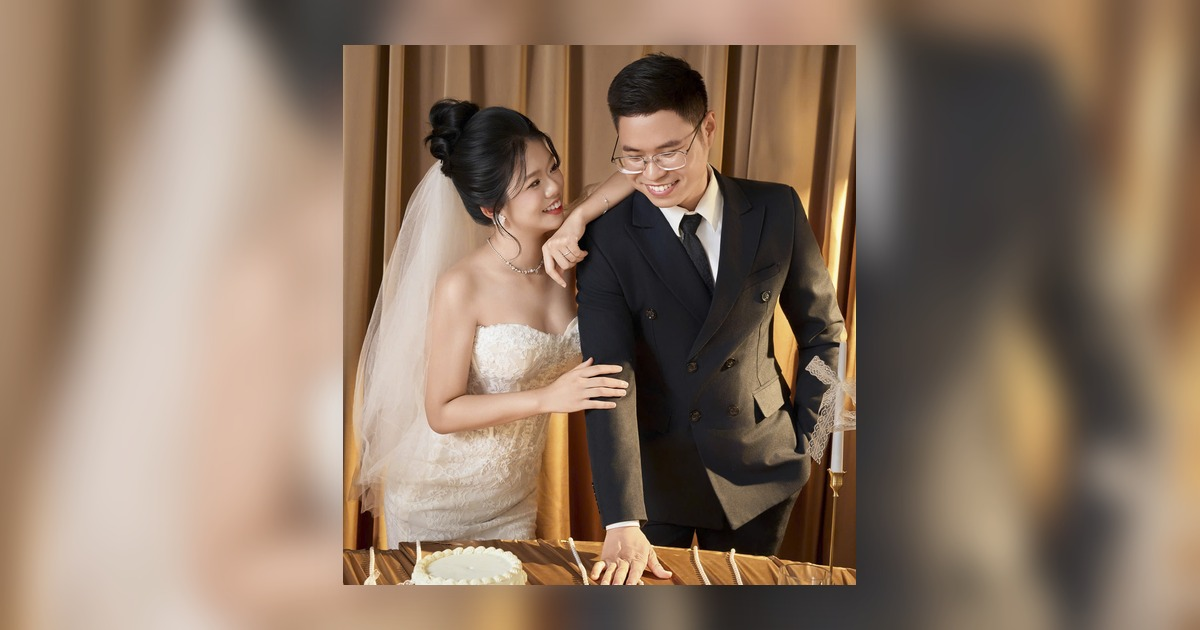
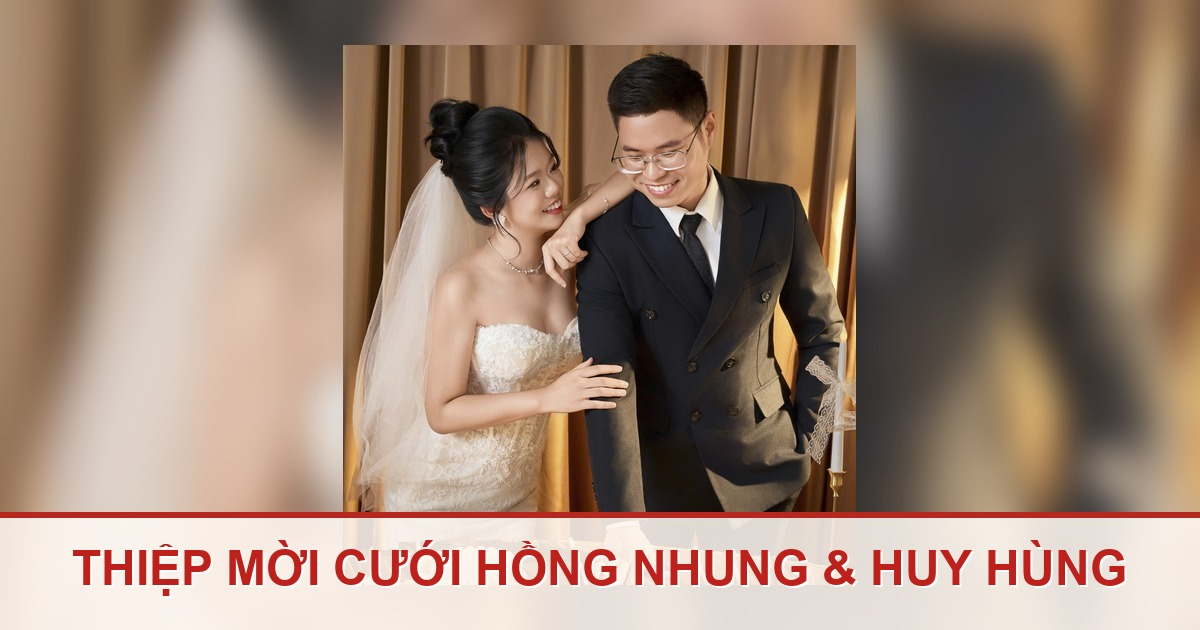
1

Changed region(s): [[0.0, 0.8143, 1.0, 1.0]]

diff --git a/index.html b/index.html
@@ -5,8 +5,9 @@
     <meta charset="UTF-8">
     <meta content="IE=edge" http-equiv="X-UA-Compatible">
     <meta content="width=device-width, initial-scale=1" name="viewport">
-    <title>THIỆP MỜI CƯỚI HỐNG NHUNG & HUY HÙNG</title>
-    <meta property="og:title" content="THIỆP MỜI CƯỚI HỐNG NHUNG & HUY HÙNG">
+    <title>THIỆP MỜI CƯỚI HỒNG NHUNG & HUY HÙNG</title>
+    <meta property="og:title" content="THIỆP MỜI CƯỚI HỒNG NHUNG & HUY HÙNG">
+    <meta property="og:description" content="Thiệp mời cưới Hồng Nhung & Huy Hùng.">
     <meta property="og:image" content="https://weddingnhunghung.vercel.app/images/zalo-preview.jpg">
     <meta property="og:image:type" content="image/jpeg">
     <meta property="og:image:width" content="1200">
@@ -16,8 +17,8 @@
     <meta property="og:locale" content="vi_VN">
     <meta property="og:type" content="website">
     <meta name="twitter:card" content="summary_large_image">
-    <meta name="twitter:title" content="THIỆP MỜI CƯỚI HỐNG NHUNG & HUY HÙNG">
-    <meta name="twitter:description" content="Thiệp mời cướiHồng Nhung & Huy Hùng.">
+    <meta name="twitter:title" content="THIỆP MỜI CƯỚI HỒNG NHUNG & HUY HÙNG">
+    <meta name="twitter:description" content="Thiệp mời cưới Hồng Nhung & Huy Hùng.">
     <meta name="twitter:image" content="https://weddingnhunghung.vercel.app/images/zalo-preview.jpg">
 
     <link href="images/favicon/apple-touch-icon.png" rel="apple-touch-icon" sizes="180x180">
@@ -185,6 +186,7 @@
             <div class="ww-section ww-gift-box-section" id="gift">
                 <div class="container">
                     <h2 class="gift-title">HỘP QUÀ MỪNG</h2>
+					<h2 class="gift-title">CÔ DÂU</h2>
                     <div class="gift-qr-box">
                         <img src="images/qr.png" alt="Mã QR nhận tiền mừng cưới Hồng Nhung và Huy Hùng">
                         <p>Quét mã để gửi quà mừng</p>
